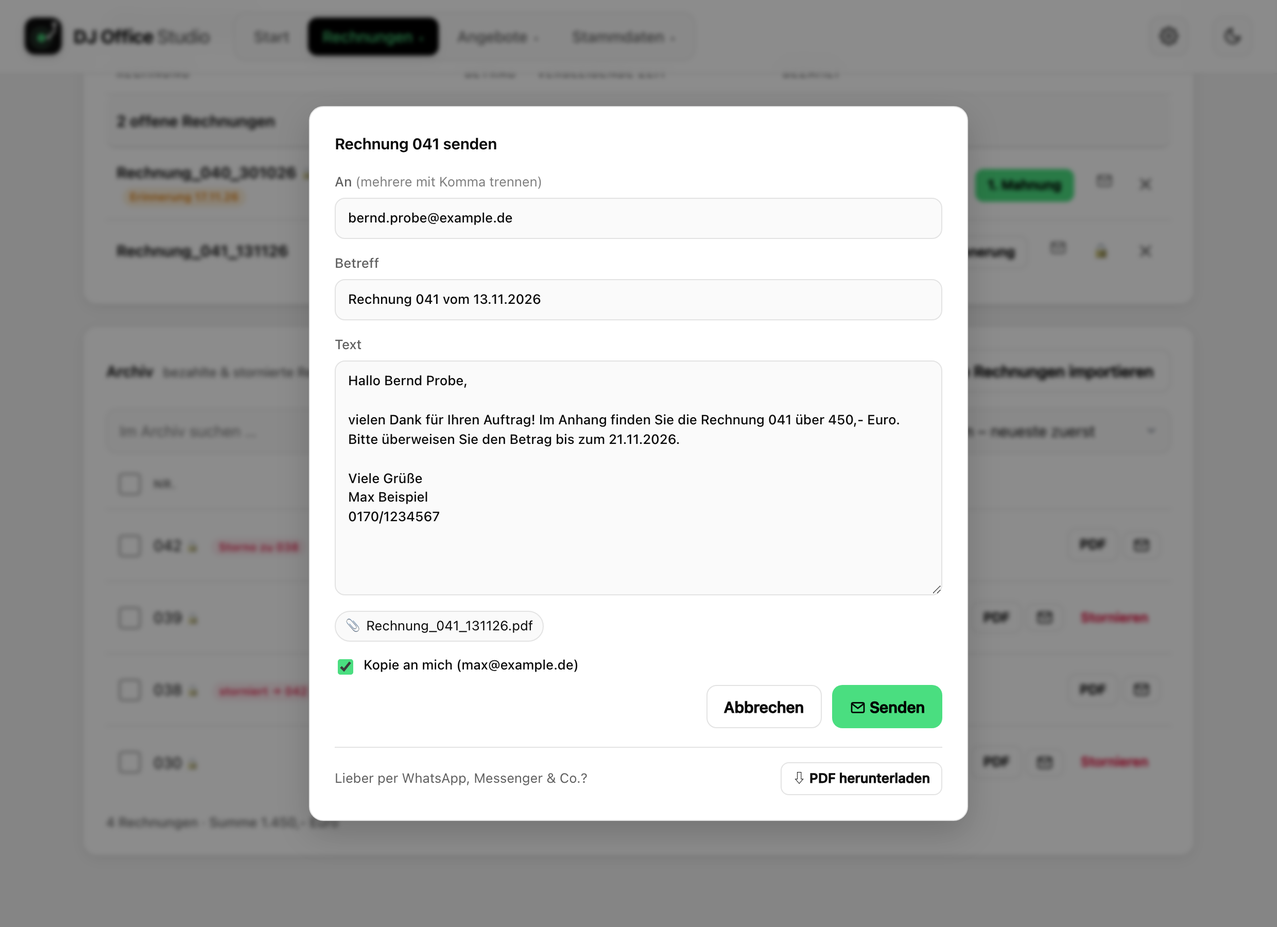
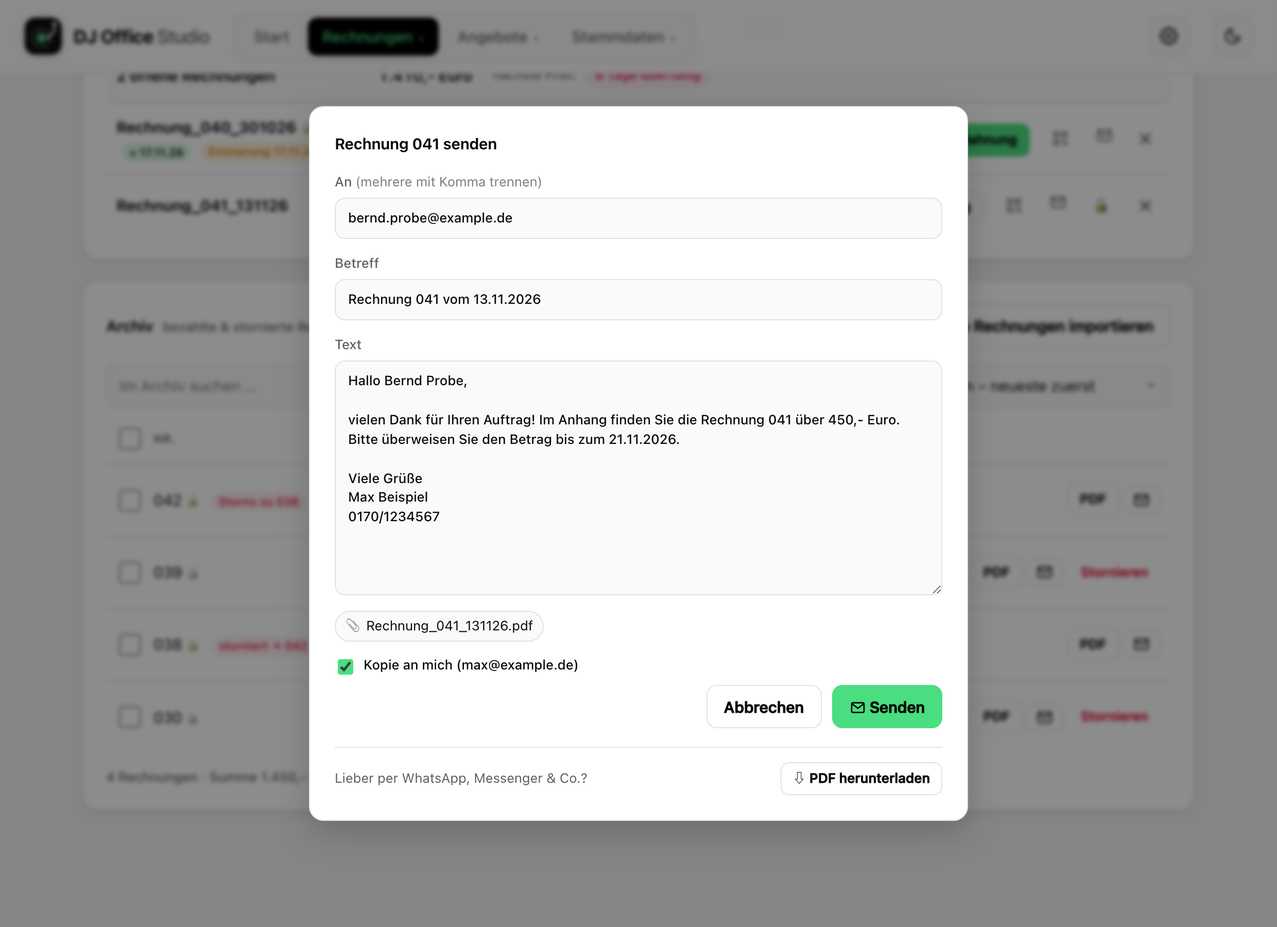
QR-Code zum Bezahlen (GiroCode) auf Rechnungen und Mahnungen, Anzeige in der App, Version 0.15.0

diff --git a/rechnungen/app/static/app.js b/rechnungen/app/static/app.js
@@ -762,6 +762,8 @@ function fristBadge(z) {
 const ICON_MAIL = `<svg class="ico" viewBox="0 0 24 24" width="17" height="17" fill="none" stroke="currentColor" stroke-width="1.9" stroke-linecap="round" stroke-linejoin="round" aria-hidden="true"><rect x="3" y="5" width="18" height="14" rx="2"/><path d="m3.5 6.5 8.5 6.5 8.5-6.5"/></svg>`;
 
 const ICON_EDIT = `<svg class="ico" viewBox="0 0 24 24" width="17" height="17" fill="none" stroke="currentColor" stroke-width="1.9" stroke-linecap="round" stroke-linejoin="round" aria-hidden="true"><path d="M4 20h4L19 9l-4-4L4 16v4z"/><path d="m13.5 6.5 4 4"/></svg>`;
+const ICON_QR = `<svg class="ico" viewBox="0 0 24 24" width="17" height="17" fill="none" stroke="currentColor" stroke-width="1.9" stroke-linecap="round" stroke-linejoin="round" aria-hidden="true"><rect x="3.5" y="3.5" width="6" height="6" rx="1"/><rect x="14.5" y="3.5" width="6" height="6" rx="1"/><rect x="3.5" y="14.5" width="6" height="6" rx="1"/><path d="M14.5 14.5h2.5v2.5M20.5 14.5v.01M14.5 20.5h.01M17.5 20.5h3v-3"/></svg>`;
+const OHNE_UEBERWEISUNG = /\bbar\b|bereits|beglichen|erhalten/i;   // wie im Server: „Bar erhalten“, „Bereits bezahlt“
 const aktionen = (...welche) => welche.map(a => ({
   pdf: `<button class="small secondary" data-act="pdf">PDF</button>`,
   edit: `<button class="small secondary" data-act="edit">Bearbeiten</button>`,
@@ -827,6 +829,7 @@ function renderOffen() {
         <td class="btns offen-aktionen">
           ${r.mahnungen.length < 3 ? `<button type="button" class="small ${r.ziel && r.ziel.rest < 0 ? "" : "secondary"}" data-act="mahnung"
               title="${NAECHSTE_MAHNUNG[r.mahnungen.length]} als PDF erstellen">${NAECHSTE_MAHNUNG[r.mahnungen.length]}</button>` : ""}
+          ${OHNE_UEBERWEISUNG.test(r.zahlungsbedingung || "") ? "" : `<button type="button" class="icon senden" data-act="qr" title="QR-Code zum Bezahlen anzeigen (z. B. direkt nach der Feier)" aria-label="QR-Code">${ICON_QR}</button>`}
           <button type="button" class="icon senden" data-act="senden" title="Per E-Mail senden, herunterladen oder teilen" aria-label="Senden">${ICON_MAIL}</button>
           ${r.festgeschrieben ? "" : `<button type="button" class="icon" data-act="lock" title="Festschreiben (z. B. nach dem Versenden) – danach nur noch Storno">🔒</button>`}
           <button type="button" class="icon del" data-act="${r.festgeschrieben ? "storno" : "del"}"
@@ -1003,6 +1006,7 @@ $("#tab-liste").addEventListener("click", async e => {
   try {
     if (btn.dataset.act === "pdf") window.open(`api/rechnungen/${id}/pdf`, "_blank");
     if (btn.dataset.act === "senden") oeffneVersand("rechnung", inv);
+    if (btn.dataset.act === "qr") await oeffneQr(inv);
     if (btn.dataset.act === "edit") loadIntoForm(inv);
     if (btn.dataset.act === "pl-reset" && confirm(`Paperless-Markierung bei ${rechnungsName(inv)} zurücksetzen?\n\n`
         + "Die Rechnung gilt dann wieder als nicht übertragen und kann erneut an Paperless gesendet werden. "
@@ -1257,6 +1261,29 @@ $("#angebote-body").addEventListener("click", async e => {
       await loadAngebote();
       toast(`${angebotName(a)} gelöscht`);
     }
+  } catch (err) { toast(err.message, true); }
+});
+
+// ---------- QR-Code zum Bezahlen (GiroCode) ----------
+
+let qrRechnung = null;
+async function oeffneQr(inv) {
+  const info = await api(`rechnungen/${inv.id}/girocode?info=1`);   // wirft verständliche Fehler (z. B. IBAN fehlt)
+  qrRechnung = inv;
+  $("#qr-titel").textContent = `Rechnung ${inv.nummer} bezahlen`;
+  $("#qr-bild").src = `api/rechnungen/${inv.id}/girocode?t=${Date.now()}`;
+  $("#qr-empfaenger").textContent = info.empfaenger;
+  $("#qr-iban").textContent = info.iban;
+  $("#qr-betrag").textContent = fmtEuro(info.betrag);
+  $("#qr-zweck").textContent = info.zweck;
+  $("#qr-dialog").showModal();
+}
+$("#qr-zu").addEventListener("click", () => $("#qr-dialog").close());
+$("#qr-dialog").addEventListener("click", e => { if (e.target.id === "qr-dialog") $("#qr-dialog").close(); });   // Klick daneben
+$("#qr-bezahlt").addEventListener("click", async () => {
+  try {
+    await setBezahlt(qrRechnung.id, true);
+    $("#qr-dialog").close();
   } catch (err) { toast(err.message, true); }
 });
 

diff --git a/rechnungen/app/static/index.html b/rechnungen/app/static/index.html
@@ -316,6 +316,8 @@
             <label>Kontoinhaber <span class="opt">(leer = Name)</span><input name="kontoinhaber"></label>
             <label>IBAN<input name="iban" placeholder="DE00 0000 0000 0000 0000 00"></label>
             <label>BIC<input name="bic" placeholder="ABCDEFGHXXX"></label>
+            <label class="inline"><input type="checkbox" name="girocode">
+              QR-Code zum Bezahlen (GiroCode) auf Rechnungen und Mahnungen drucken – der Kunde scannt ihn mit der Banking-App</label>
             <h2 class="abstand">Steuer</h2>
             <label>Steuernummer<input name="steuernummer" placeholder="12/345/67890"></label>
             <label class="inline"><input type="checkbox" name="kleinunternehmer">
@@ -441,6 +443,23 @@
     <section id="tab-textbausteine" class="tab" data-stamm="textbausteine"></section>
     <section id="tab-zahlungsbedingungen" class="tab" data-stamm="zahlungsbedingungen"></section>
   </main>
+
+  <!-- ================= QR-Code zum Bezahlen ================= -->
+  <dialog id="qr-dialog" class="dialog qr-dialog">
+    <h2 id="qr-titel">Rechnung bezahlen</h2>
+    <p class="hint">Mit der Banking-App scannen („Fotoüberweisung“ bzw. „QR-Code scannen“) – Empfänger, Betrag und Verwendungszweck sind dann schon ausgefüllt.</p>
+    <div class="qr-bild"><img id="qr-bild" alt="GiroCode"></div>
+    <dl class="qr-daten">
+      <dt>Empfänger</dt><dd id="qr-empfaenger"></dd>
+      <dt>IBAN</dt><dd id="qr-iban"></dd>
+      <dt>Betrag</dt><dd id="qr-betrag"></dd>
+      <dt>Verwendungszweck</dt><dd id="qr-zweck"></dd>
+    </dl>
+    <div class="actions">
+      <button type="button" class="secondary" id="qr-bezahlt" title="Rechnung als bezahlt abhaken (ins Archiv)">✓ Als bezahlt markieren</button>
+      <button type="button" id="qr-zu">Schließen</button>
+    </div>
+  </dialog>
 
   <!-- ================= Versand-Dialog ================= -->
   <dialog id="versand" class="dialog">

diff --git a/rechnungen/app/static/style.css b/rechnungen/app/static/style.css
@@ -478,3 +478,11 @@ button svg.ico { vertical-align: -3px; }
 .sicherung-karte .hint { margin-top: 10px; }
 #tab-einstellungen .sicherung label.erinnerung { margin: 14px 0 0; }
 #tab-einstellungen .sicherung label.erinnerung input { width: 110px; display: block; }
+
+/* ---------- QR-Code zum Bezahlen ---------- */
+.qr-dialog { width: min(440px, calc(100vw - 24px)); }
+.qr-bild { display: flex; justify-content: center; margin: 14px 0; }
+.qr-bild img { width: min(300px, 70vw); height: auto; background: #fff; padding: 8px; border-radius: 12px; image-rendering: pixelated; }
+.qr-daten { display: grid; grid-template-columns: auto 1fr; gap: 4px 14px; margin: 0 0 18px; font-size: 14px; }
+.qr-daten dt { color: var(--muted); }
+.qr-daten dd { margin: 0; font-weight: 600; word-break: break-word; }

diff --git a/rechnungen/app/pdf.py b/rechnungen/app/pdf.py
@@ -1,5 +1,7 @@
 """PDF-Erzeugung im Layout der Vorlage-Rechnung (A4, Calibri-ähnliche Schrift)."""
+import io
 import os
+import re
 from datetime import date
 
 from fpdf import FPDF
@@ -137,6 +139,53 @@ def _gruss(pdf, absender, abstand=22):
     pdf.cell(0, 5, absender.get("name") or "", new_x="LMARGIN", new_y="NEXT")
 
 
+# ---------- GiroCode (EPC-QR-Code für Überweisungen) ----------
+
+QR = 28   # Kantenlänge des GiroCodes im PDF in mm
+_OHNE_ZAHLUNG = re.compile(r"\bbar\b|bereits|beglichen|erhalten", re.I)   # „Bar erhalten“, „Bereits bezahlt“ …
+
+
+def girocode_daten(absender, betrag, zweck):
+    """Inhalt des GiroCodes (EPC069-12, Version 002) oder None, wenn kein QR-Code möglich/gewünscht ist."""
+    iban = (absender.get("iban") or "").replace(" ", "").upper()
+    name = (absender.get("kontoinhaber") or absender.get("name") or "").strip()[:70]
+    betrag = round(float(betrag or 0), 2)
+    if not (absender.get("girocode", True) and iban and name and 0.01 <= betrag <= 999999999.99):
+        return None
+    return "\n".join(["BCD", "002", "1", "SCT", (absender.get("bic") or "").replace(" ", "").upper(), name, iban,
+                      f"EUR{betrag:.2f}", "", "", zweck[:140]])
+
+
+def girocode_fuer_rechnung(inv, absender):
+    """GiroCode-Inhalt für eine Rechnung – nicht bei Storno und nicht bei „Bar erhalten“ / „Bereits bezahlt“."""
+    if inv.get("art") == "angebot" or inv.get("storno_zu") or inv.get("storno_von") \
+            or _OHNE_ZAHLUNG.search(inv.get("zahlungsbedingung") or ""):
+        return None
+    return girocode_daten(absender, inv.get("gesamt", 0), f"Rechnung {inv['nummer']}")
+
+
+def girocode_svg(daten):
+    import segno
+    buf = io.BytesIO()
+    segno.make(daten, error="m", micro=False).save(buf, kind="svg", scale=8, border=2, xmldecl=False,
+                                                     svgns=True, dark="#000", light="#fff")
+    return buf.getvalue()
+
+
+def _qr_rechts(pdf, daten, y):
+    """GiroCode rechts neben dem Zahlungstext, mit kurzer Beschriftung darunter."""
+    import segno
+    buf = io.BytesIO()
+    segno.make(daten, error="m", micro=False).save(buf, kind="png", scale=10, border=2)
+    buf.seek(0)
+    x = LEFT + sum(COLS) - QR
+    pdf.image(buf, x=x, y=y, w=QR, h=QR)
+    pdf.set_font("Body", "", 7.5)
+    pdf.set_xy(x - 6, y + QR + 0.5)
+    pdf.multi_cell(QR + 12, 3.4, "Bequem bezahlen:\nmit der Banking-App scannen", align="C")
+    return y + QR + 8   # unterkante inkl. Beschriftung
+
+
 def build_invoice_pdf(inv, absender):
     """inv: dict mit nummer, datum, kunde{...}, positionen[{beschreibung, lieferdatum, preis}],
     zahlungsbedingung. Mit art="angebot" (+ gueltig_bis, hinweise) entsteht ein Angebot,
@@ -205,12 +254,21 @@ def build_invoice_pdf(inv, absender):
         pdf.multi_cell(0, 5, f"Die Rechnung Nr. {storno['nummer']} ist damit aufgehoben. Ein bereits gezahlter "
                              "Betrag wird erstattet.", align="L", new_x="LMARGIN", new_y="NEXT")
     else:
-        # Zahlungsbedingung
+        # Zahlungsbedingung – rechts daneben ggf. der GiroCode
         pdf.set_font("Body", "B", BODY_PT)
         pdf.ln(6)
-        pdf.multi_cell(0, 5, inv.get("zahlungsbedingung") or "", align="L", new_x="LMARGIN", new_y="NEXT")
+        qr = girocode_fuer_rechnung({**inv, "gesamt": gesamt}, absender)
+        if qr and pdf.will_page_break(QR + 10):
+            pdf.add_page()
+        qr_y = pdf.get_y()
+        text_w = sum(COLS) - QR - 8 if qr else 0
+        pdf.multi_cell(text_w, 5, inv.get("zahlungsbedingung") or "", align="L", new_x="LMARGIN", new_y="NEXT")
         pdf.ln(10)
-        pdf.cell(0, 5, "Vielen Dank für Ihren Auftrag!", new_x="LMARGIN", new_y="NEXT")
+        pdf.cell(text_w, 5, "Vielen Dank für Ihren Auftrag!", new_x="LMARGIN", new_y="NEXT")
+        if qr:
+            unten = _qr_rechts(pdf, qr, qr_y)
+            pdf.set_font("Body", "B", BODY_PT)
+            pdf.set_xy(LEFT, max(pdf.get_y(), unten - 16))
     _gruss(pdf, absender)
     return bytes(pdf.output())
 
@@ -251,7 +309,11 @@ def build_mahnung_pdf(inv, mahnung, absender, faellig_iso=None):
 
     pdf.ln(6)
     pdf.set_font("Body", "B", BODY_PT)
-    pdf.multi_cell(0, 5, f"Bitte überweisen Sie den offenen Betrag von {fmt_euro(inv['gesamt'])} bis spätestens "
+    qr = girocode_daten(absender, inv["gesamt"], f"Rechnung {inv['nummer']}") \
+        if not _OHNE_ZAHLUNG.search(inv.get("zahlungsbedingung") or "") else None
+    qr_y = pdf.get_y()
+    text_w = sum(COLS) - QR - 8 if qr else 0
+    pdf.multi_cell(text_w, 5, f"Bitte überweisen Sie den offenen Betrag von {fmt_euro(inv['gesamt'])} bis spätestens "
                          f"{fmt_date_lang(mahnung['frist'])} auf das unten genannte Konto.",
                    align="L", new_x="LMARGIN", new_y="NEXT")
     pdf.ln(4)
@@ -261,7 +323,10 @@ def build_mahnung_pdf(inv, mahnung, absender, faellig_iso=None):
     if stufe == 3:
         schluss = ("Dies ist die letzte Mahnung. Geht der Betrag nicht fristgerecht ein, behalte ich mir weitere "
                    "Schritte vor. " + schluss)
-    pdf.multi_cell(0, 5, schluss, align="L", new_x="LMARGIN", new_y="NEXT")
+    pdf.multi_cell(text_w, 5, schluss, align="L", new_x="LMARGIN", new_y="NEXT")
+    if qr:
+        unten = _qr_rechts(pdf, qr, qr_y)
+        pdf.set_xy(LEFT, max(pdf.get_y(), unten - 16))
     pdf.set_font("Body", "B", BODY_PT)
     _gruss(pdf, absender, abstand=16)
     return bytes(pdf.output())

diff --git a/tests/test_girocode.py b/tests/test_girocode.py
@@ -1,0 +1,67 @@
+"""GiroCode (EPC-QR-Code) auf Rechnungen und Mahnungen und zum Anzeigen in der App."""
+import io
+
+from pypdf import PdfReader
+
+from conftest import neue_rechnung
+
+import pdf
+
+
+def bilder(daten):
+    return sum(len(p.images) for p in PdfReader(io.BytesIO(daten)).pages)
+
+
+ABS = {"name": "Max Beispiel", "iban": "DE02 1203 0000 0000 2020 51", "bic": "BYLADEM1001"}
+
+
+def test_inhalt_nach_epc_standard():
+    d = pdf.girocode_daten(ABS, 1020, "Rechnung 037").split("\n")
+    assert d == ["BCD", "002", "1", "SCT", "BYLADEM1001", "Max Beispiel", "DE02120300000000202051",
+                 "EUR1020.00", "", "", "Rechnung 037"]
+    assert pdf.girocode_daten(ABS | {"kontoinhaber": "Max B. GbR"}, 99.5, "x").split("\n")[5:8] == \
+        ["Max B. GbR", "DE02120300000000202051", "EUR99.50"]
+    assert pdf.girocode_daten(ABS | {"iban": ""}, 100, "x") is None
+    assert pdf.girocode_daten(ABS, 0, "x") is None and pdf.girocode_daten(ABS, -50, "x") is None
+    assert pdf.girocode_daten(ABS | {"girocode": False}, 100, "x") is None
+
+
+def test_qr_code_nur_wo_ueberwiesen_wird(client):
+    client.put("/api/einstellungen", json={"iban": ABS["iban"]})
+    offen = neue_rechnung(client, nummer="037")
+    bar = neue_rechnung(client, nummer="038", zahlungsbedingung="Den Rechnungsbetrag habe ich dankend in bar erhalten.")
+    assert bilder(client.get(f"/api/rechnungen/{offen}/pdf").data) == 1
+    assert bilder(client.get(f"/api/rechnungen/{bar}/pdf").data) == 0
+    storno = client.post(f"/api/rechnungen/{offen}/stornieren").get_json()["id"]
+    assert bilder(client.get(f"/api/rechnungen/{storno}/pdf").data) == 0
+    a = client.post("/api/angebote", json={"nummer": "010", "datum": "2026-11-01", "kunde": {"name": "X"},
+                                           "positionen": [{"beschreibung": "DJ", "preis": 500}]}).get_json()["id"]
+    assert bilder(client.get(f"/api/angebote/{a}/pdf").data) == 0
+    # abschaltbar
+    neu = neue_rechnung(client, nummer="045")
+    client.put("/api/einstellungen", json={"girocode": False})
+    assert bilder(client.get(f"/api/rechnungen/{neu}/pdf").data) == 0
+
+
+def test_qr_code_in_mahnung(client):
+    inv = neue_rechnung(client, datum="2026-10-01")
+    m = client.post(f"/api/rechnungen/{inv}/mahnung").get_json()
+    assert bilder(client.get(f"/api/mahnungen/{m['id']}/pdf").data) == 1
+
+
+def test_anzeigen_in_der_app(client):
+    inv = neue_rechnung(client, nummer="037", preis=960)
+    r = client.get(f"/api/rechnungen/{inv}/girocode")
+    assert r.status_code == 200 and r.mimetype == "image/svg+xml" and b"<svg" in r.data
+    info = client.get(f"/api/rechnungen/{inv}/girocode?info=1").get_json()
+    assert info["betrag"] == 960 and info["zweck"] == "Rechnung 037" and info["empfaenger"] == "Max Beispiel"
+    # auch wenn der Druck im PDF abgeschaltet ist
+    client.put("/api/einstellungen", json={"girocode": False})
+    assert client.get(f"/api/rechnungen/{inv}/girocode").status_code == 200
+    # bezahlt → kein QR-Code mehr
+    client.patch(f"/api/rechnungen/{inv}/bezahlt", json={"bezahlt": True})
+    assert client.get(f"/api/rechnungen/{inv}/girocode").status_code == 400
+    # ohne IBAN → verständlicher Hinweis
+    client.put("/api/einstellungen", json={"iban": ""})
+    r = client.get(f"/api/rechnungen/{neue_rechnung(client, nummer='040')}/girocode")
+    assert r.status_code == 400 and "IBAN" in r.get_json()["error"]

diff --git a/rechnungen/app/main.py b/rechnungen/app/main.py
@@ -21,7 +21,7 @@ from flask import Flask, Response, abort, jsonify, request, send_from_directory
 import db
 import importer
 import mail
-from pdf import MAHNSTUFEN, build_invoice_pdf, build_mahnung_pdf, fmt_euro, mahnung_filename, pdf_filename
+from pdf import MAHNSTUFEN, build_invoice_pdf, girocode_fuer_rechnung, girocode_svg, build_mahnung_pdf, fmt_euro, mahnung_filename, pdf_filename
 
 OPTIONS_PATH = os.environ.get("OPTIONS_PATH", "/data/options.json")
 DESKTOP = os.environ.get("DJOS_DESKTOP") == "1"   # Desktop-Version (Windows/Mac) statt Home Assistant
@@ -36,6 +36,7 @@ FELDER = {
     "name": (str, ""), "strasse": (str, ""), "plz_ort": (str, ""), "telefon": (str, ""),
     "ort_fuer_datum": (str, ""),
     "bank_name": (str, ""), "kontoinhaber": (str, ""), "iban": (str, ""), "bic": (str, ""),
+    "girocode": (bool, True),         # QR-Code zum Bezahlen auf Rechnungen und Mahnungen
     "steuernummer": (str, ""), "kleinunternehmer": (bool, True),
     "startnummer": (int, 1), "angebot_startnummer": (int, 1), "angebot_gueltigkeit_tage": (int, 30),
     "pdf_ordner": (str, os.environ.get("STANDARD_PDF_ORDNER", "/share/rechnungen")),
@@ -720,6 +721,23 @@ def _pdf_response(inv, download=False):
     disposition = "attachment" if download or request.args.get("download") else "inline"
     return Response(build_invoice_pdf(inv, absender()), mimetype="application/pdf",
                     headers={"Content-Disposition": f'{disposition}; filename="{pdf_filename(inv)}"'})
+
+
+@app.get("/api/rechnungen/<int:inv_id>/girocode")
+def invoices_girocode(inv_id):
+    """GiroCode zum Anzeigen in der App (z. B. Kunde bezahlt direkt nach der Feier am Handy)."""
+    inv = db.get_invoice(inv_id) or abort(404)
+    a = absender() | {"girocode": True}   # Anzeigen geht auch, wenn der Druck im PDF abgeschaltet ist
+    if not (a.get("iban") and (a.get("kontoinhaber") or a.get("name"))):
+        return _fehler("Für den QR-Code fehlen IBAN oder Name – bitte unter ⚙ Einstellungen eintragen.")
+    daten = girocode_fuer_rechnung(inv, a)
+    if not daten or inv["bezahlt"] or inv["storniert_durch"]:
+        return _fehler("Für diese Rechnung gibt es keinen offenen Betrag zum Überweisen.")
+    if request.args.get("info"):
+        return jsonify({"empfaenger": (a.get("kontoinhaber") or a.get("name")).strip()[:70],
+                        "iban": a["iban"], "bic": a.get("bic", ""), "betrag": inv["gesamt"],
+                        "zweck": f"Rechnung {inv['nummer']}"})
+    return Response(girocode_svg(daten), mimetype="image/svg+xml", headers={"Cache-Control": "no-store"})
 
 
 @app.get("/api/rechnungen/<int:inv_id>/pdf")

diff --git a/docs/screenshots.py b/docs/screenshots.py
@@ -149,6 +149,13 @@ with sync_playwright() as p:
     page.screenshot(path=str(ZIEL / "versand.png"))
     page.click("#versand-abbrechen")
 
+    # QR-Code zum Bezahlen für Rechnung 041
+    page.locator("#offen tr[data-id]", has_text="_041_").locator("button[data-act=qr]").click()
+    page.wait_for_timeout(800)
+    page.evaluate("document.activeElement && document.activeElement.blur()")
+    page.screenshot(path=str(ZIEL / "girocode.png"))
+    page.click("#qr-zu")
+
     # Rechnungseditor mit Bestandskunde und zwei Positionen
     ctx2 = browser.new_context(viewport={"width": 1240, "height": 1180}, device_scale_factor=2, locale="de-DE")
     ctx2.add_init_script("localStorage.setItem('theme','light')")

diff --git a/tests/test_mahnungen.py b/tests/test_mahnungen.py
@@ -15,7 +15,7 @@ def test_drei_stufen(client, tmp_path):
         text = pdf_text(client.get(f"/api/mahnungen/{r.get_json()['id']}/pdf").data)
         assert titel in text and "Rechnung Nr. 037" in text and "960,- Euro" in text
         frist = (date.today() + timedelta(days=7)).strftime("%d.%m.%Y")
-        assert f"bis spätestens {frist}" in text
+        assert f"bis spätestens {frist}" in " ".join(text.split())   # Text bricht neben dem QR-Code um
         assert "fällig seit 09.10.26" in text   # Rechnungsdatum + 8 Tage aus der Zahlungsbedingung
     assert "letzte Mahnung" in text
     assert client.post(f"/api/rechnungen/{inv_id}/mahnung").status_code == 400   # mehr als 3 Stufen

diff --git a/desktop/build.py b/desktop/build.py
@@ -22,7 +22,7 @@ args = [
     "--windowed",                 # kein Konsolenfenster; macOS: .app-Bundle
     "--noconfirm", "--clean",
     "--paths", str(APP),
-    "--hidden-import", "main", "--hidden-import", "db", "--hidden-import", "pdf", "--hidden-import", "importer", "--hidden-import", "mail",
+    "--hidden-import", "main", "--hidden-import", "db", "--hidden-import", "pdf", "--hidden-import", "importer", "--hidden-import", "mail", "--hidden-import", "segno",
     "--add-data", f"{APP / 'static'}{SEP}static",
     "--add-data", f"{ROOT / 'rechnungen' / 'config.yaml'}{SEP}.",
     "--icon", str(ROOT / "rechnungen" / "icon.png"),

diff --git a/README.md b/README.md
@@ -22,6 +22,7 @@ DJ Office Studio ist eine App zum Schreiben von DJ-Rechnungen und -Angeboten –
 - **Festschreiben & Storno**: Eine Rechnung lässt sich nur ändern oder löschen, solange sie nicht festgeschrieben ist. Festgeschrieben wird sie automatisch, sobald sie bezahlt, gemahnt oder an Paperless gesendet wird – oder per 🔒 von Hand (z. B. nach dem Versenden). Danach wird korrigiert, wie es steuerlich sein soll: per **Stornorechnung** mit eigener Nummer und negativen Beträgen.
 - **Zahlungserinnerung und Mahnungen**: Zu offenen Rechnungen per Klick eine Zahlungserinnerung, dann 1. und 2. Mahnung als PDF – mit Bezug auf die Rechnung, Fälligkeitsdatum und neuer Zahlungsfrist (Standard 7 Tage).
 - **E-Mail-Versand**: Rechnungen, Angebote, Zahlungserinnerungen und Mahnungen direkt aus der App per E-Mail verschicken – über das eigene Postfach, egal bei welchem Anbieter (Vorlagen für WEB.DE, GMX, Gmail, iCloud, T-Online & Co., aber auch jeder andere Anbieter oder eigene Mailserver). Empfänger kommt aus den Kundendaten, Betreff und Text aus anpassbaren Vorlagen, das PDF hängt automatisch an. Verschickte Belege tragen einen Vermerk „✉ Datum“, Rechnungen werden dabei festgeschrieben. Herunterladen (z. B. zum Weiterschicken per WhatsApp) geht wie bisher – direkt im selben Dialog.
+- **QR-Code zum Bezahlen (GiroCode)**: Auf Rechnungen, Zahlungserinnerungen und Mahnungen steht neben der Zahlungsbedingung ein QR-Code. Der Kunde scannt ihn mit seiner Banking-App, und Empfänger, IBAN, Betrag und Verwendungszweck („Rechnung 037“) sind schon ausgefüllt. Bei offenen Rechnungen zeigt die App den Code auch groß auf dem Bildschirm an, z. B. wenn direkt nach der Feier bezahlt wird. Nicht auf Angeboten, Stornorechnungen und bei „Bar erhalten“ / „Bereits bezahlt“; abschaltbar unter ⚙ Einstellungen.
 - **Datensicherung & Export**: Unter ⚙ Einstellungen alle Daten als eine Sicherungsdatei herunterladen bzw. wieder einspielen; die Startseite zeigt, wie lange die letzte Sicherung her ist, und erinnert nach einstellbarer Zeit (Standard 30 Tage) an eine neue, und ein **Export für den Steuerberater** – alle Rechnungen eines Jahres als Excel-Tabelle (CSV, mit Bezahlt-Datum und Stornos) plus PDFs als ZIP. Die Desktop-Version sichert zusätzlich automatisch einmal pro Tag.
 - **Angebote**: Im selben Editor wie Rechnungen (Kunde, Rechnungsposten mit von/bis-Zeiten, Preise) – mit eigenem Nummernkreis, Angebotsdatum, **Gültig bis** (Bindefrist, Standard 30 Tage), optionaler Zahlungsbedingung und freien **Hinweisen** (z. B. Verlängerungsstunde, Leistungsumfang, GEMA). Das PDF hat dasselbe Layout wie die Rechnung (`Angebot_001_120627.pdf`). Oben in der Angebotsansicht und auf der Startseite: **Offene Angebote** mit Angebotsdatum und Restlaufzeit („noch 12 Tage“, „seit 3 Tagen abgelaufen“), auf der Startseite zusätzlich ein Hinweis, wenn ein Angebot in den nächsten 3 Tagen abläuft. In der Angebotsliste: mehrere markieren und als ZIP herunterladen oder an Paperless senden, Status (offen / angenommen / abgelehnt), Restlaufzeit bzw. „abgelaufen“ und **→ Rechnung**, das Kunde und Positionen in eine neue Rechnung übernimmt und das Angebot als angenommen markiert.
 - **Import alter Rechnungen und Angebote**: Bisherige PDFs hochladen (gemischt möglich – die App erkennt Rechnung oder Angebot selbst). Empfänger, Positionen und Vorschläge für Rechnungsposten werden erkannt und können übernommen werden, optional auch die Rechnungen selbst als Archiv und die Angebote (mit „gültig bis“ und Hinweisen) in die Angebotsliste.
@@ -47,6 +48,10 @@ Oben in der Kopfzeile gibt es auf jeder Seite das Menü: **Start**, **Rechnungen
 
 ![Screenshot: Versand per E-Mail](docs/bilder/versand.png)
 
+**QR-Code zum Bezahlen:** Das QR-Symbol bei einer offenen Rechnung zeigt den GiroCode groß an – der Kunde scannt ihn mit seiner Banking-App („Fotoüberweisung“ bzw. „QR-Code scannen“). Mit **Als bezahlt markieren** wandert die Rechnung danach direkt ins Archiv. Derselbe Code ist auch auf dem Rechnungs-PDF gedruckt.
+
+![Screenshot: QR-Code zum Bezahlen](docs/bilder/girocode.png)
+
 **Angebote:** Über **Angebote → Neues Angebot** im selben Editor schreiben – zusätzlich mit **Gültig bis** und freien **Hinweisen** (z. B. Verlängerungsstunde, GEMA). In **Angebote → Angebote** stehen oben die offenen Angebote mit Restlaufzeit, darunter alle Angebote mit Status (offen / angenommen / abgelehnt). **→ Rechnung** macht aus einem Angebot eine neue Rechnung und markiert es als angenommen.
 
 ![Screenshot: Angebote](docs/bilder/angebote.png)
@@ -64,7 +69,7 @@ Alle Einstellungen werden **in der App** gemacht: oben rechts auf **⚙** klicke
 | Bereich | Felder |
 |---|---|
 | Absender | Name (Absender, Gruß, Kontoinhaber), Straße, PLZ und Ort, Telefon, Ort vor dem Datum („Musterstadt, den …“) |
-| Bankverbindung | Bank, abweichender Kontoinhaber, IBAN, BIC |
+| Bankverbindung | Bank, abweichender Kontoinhaber, IBAN, BIC, QR-Code zum Bezahlen (GiroCode) drucken |
 | Steuer | Steuernummer, Kleinunternehmer-Hinweis nach §19 UStG |
 | Nummern & Fristen | Rechnungen ab Nr., Angebote ab Nr. (danach wird automatisch hochgezählt), Gültigkeit neuer Angebote in Tagen |
 | Ablage & Paperless | Ordner für PDF-Kopien (Standard `/share/rechnungen`), „Paperless-ngx ist installiert“, Paperless-Eingangsordner |

diff --git a/rechnungen/CHANGELOG.md b/rechnungen/CHANGELOG.md
@@ -2,6 +2,12 @@
 
 Alle Änderungen an DJ Office Studio. Neueste Version oben.
 
+## 0.15.0 – 2026-11-17
+
+### Neu
+- **QR-Code zum Bezahlen (GiroCode)** auf Rechnungen, Zahlungserinnerungen und Mahnungen, rechts neben der Zahlungsbedingung. Der Kunde scannt ihn mit seiner Banking-App, und Empfänger, IBAN, BIC, Betrag und Verwendungszweck („Rechnung 037“) sind schon ausgefüllt. Kein QR-Code auf Angeboten, Stornorechnungen und bei Zahlungsbedingungen wie „Bar erhalten“ oder „Bereits bezahlt“. Abschaltbar unter ⚙ Einstellungen → Bankverbindung.
+- **QR-Code anzeigen**: Das neue QR-Symbol bei offenen Rechnungen zeigt den Code groß auf dem Bildschirm, zusammen mit Empfänger, IBAN, Betrag und Verwendungszweck – praktisch, wenn der Kunde direkt nach der Feier bezahlt. Mit „Als bezahlt markieren“ geht die Rechnung danach direkt ins Archiv.
+
 ## 0.14.1 – 2026-11-17
 
 ### Behoben
